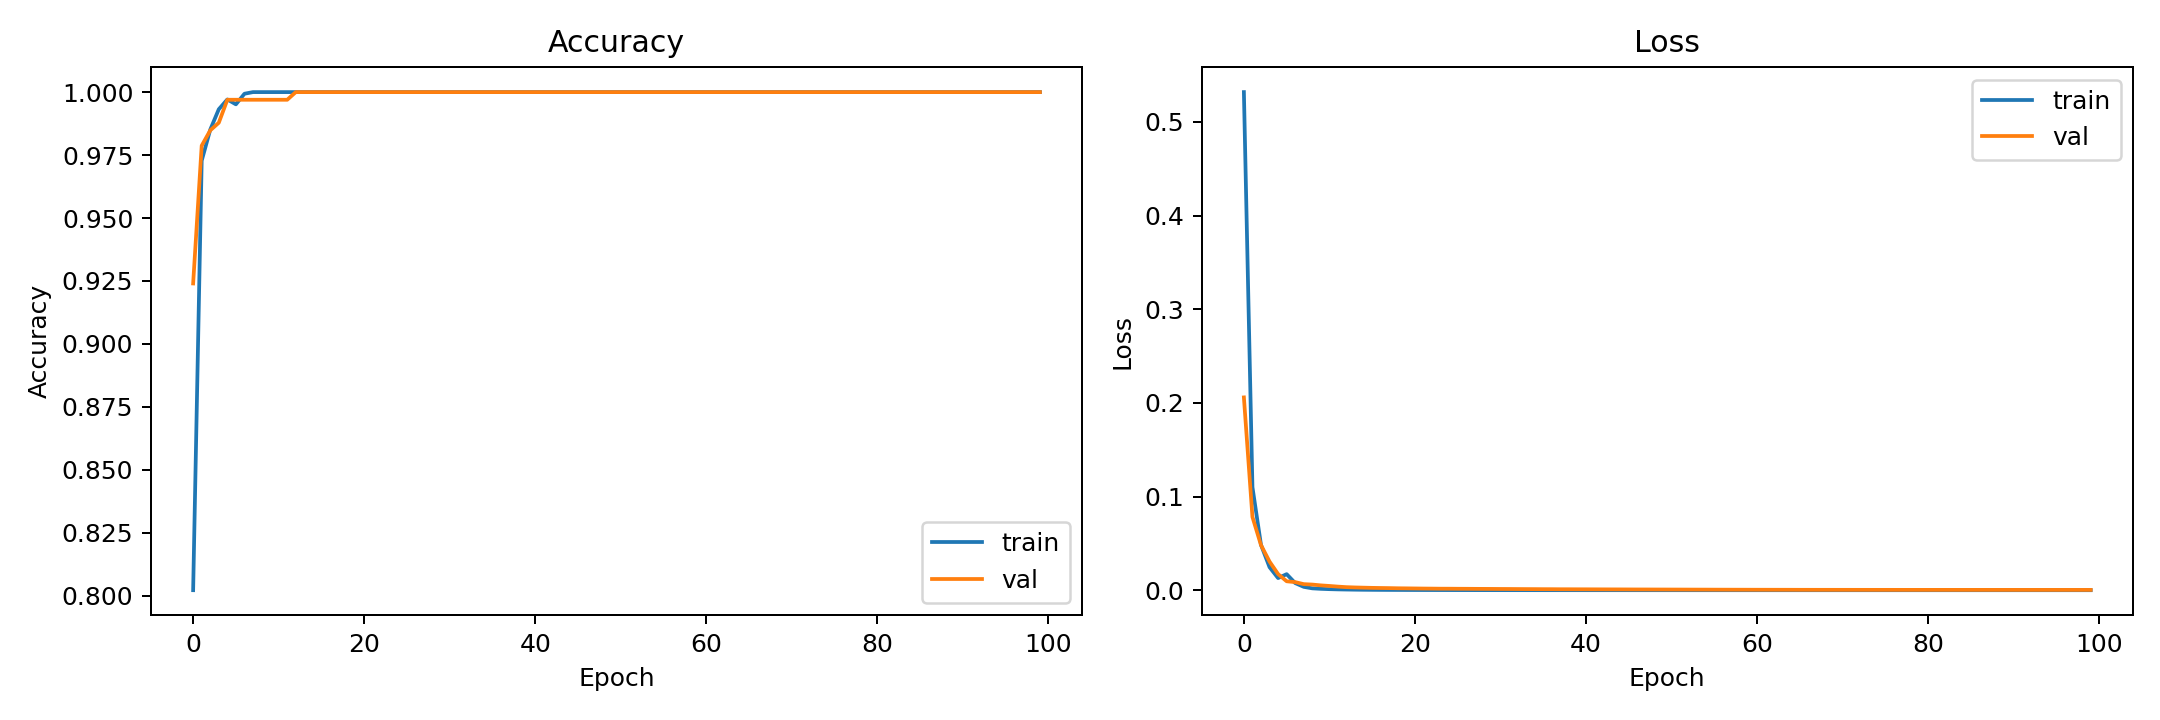
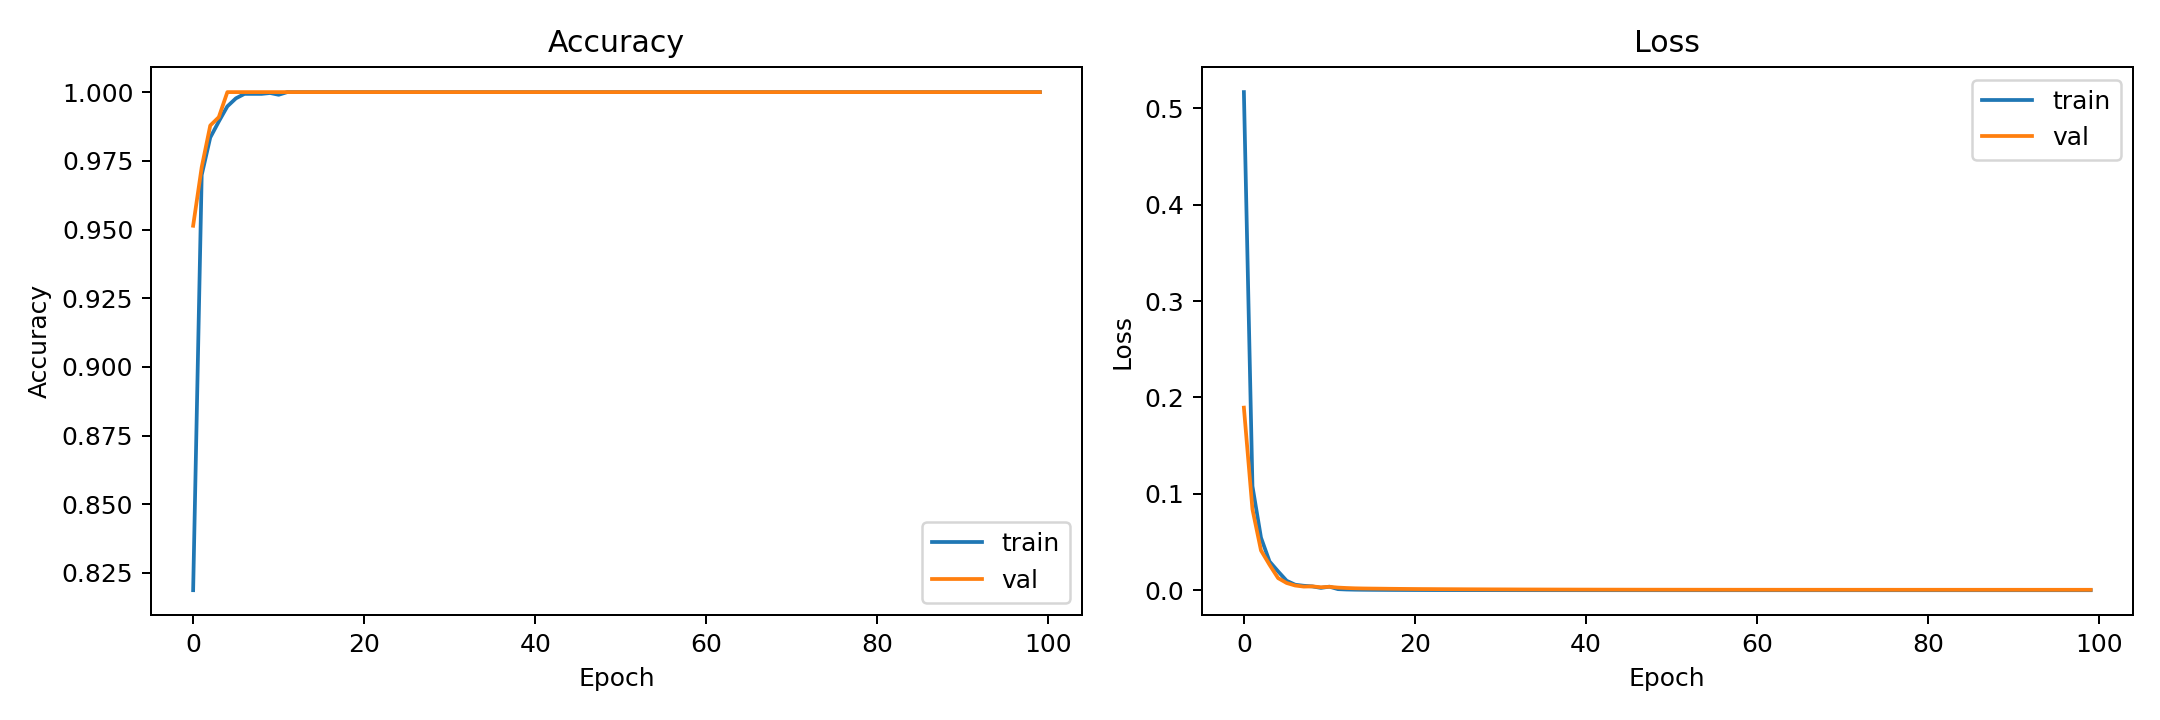
Add saved model recheck notes

diff --git a/ml/Eval/RESULTS_NOTES.md b/ml/Eval/RESULTS_NOTES.md
@@ -1,0 +1,60 @@
+# UnShrimp NN Evaluation Notes
+
+Last recheck: 2026-05-30
+
+## Confirmed Saved-Model Result
+
+The saved model in `models/unshrimp_posture_nn` was reloaded and evaluated against the current `data/gmo` validation and test splits.
+
+Validation:
+
+- Accuracy: 1.0000
+- Weighted precision: 1.0000
+- Weighted recall: 1.0000
+- Weighted F1: 1.0000
+
+Test:
+
+- Accuracy: 0.9940
+- Weighted precision: 0.9942
+- Weighted recall: 0.9940
+- Weighted F1: 0.9940
+
+## Test Confusion Matrix
+
+Label order:
+
+1. `good_posture`
+2. `shrimp_slouch`
+3. `forward_lean`
+4. `looking_down`
+
+Matrix:
+
+```text
+[[125,   0,   1,   0],
+ [  0,  69,   0,   0],
+ [  0,   0,  69,   0],
+ [  0,   0,   1,  68]]
+```
+
+The model made 2 mistakes out of 333 test samples:
+
+- 1 `good_posture` sample was predicted as `forward_lean`.
+- 1 `looking_down` sample was predicted as `forward_lean`.
+
+## What To Be Conscious About
+
+This result is a strong first checkpoint, but it should not be treated as final real-world accuracy yet.
+
+Important caveats:
+
+- The current dataset is front-camera only.
+- The current split is not a true unseen-person split.
+- Adjacent webcam frames can be very similar, which can make validation/test accuracy look higher.
+- The model is most likely to over-call `forward_lean`, so the extension should use smoothing and hybrid rule checks before alerting.
+- Live extension testing on new people, lighting, laptop heights, and seating positions is still required.
+
+## Practical Takeaway
+
+The model is good enough to begin extension integration and hybrid inference work. Before claiming robust performance, collect more people and run an unseen-person or unseen-session evaluation.